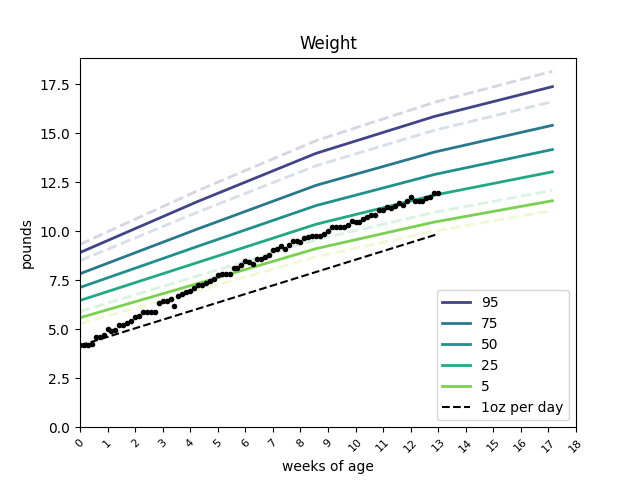
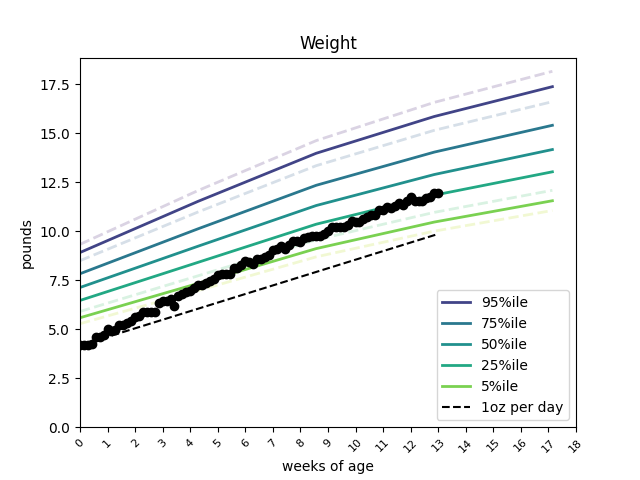
added weight vs. length percentiles

Changed region(s): [[0.125, 0.375, 0.6875, 0.75], [0.75, 0.5938, 0.8438, 0.8125]]

diff --git a/datita.py b/datita.py
@@ -62,19 +62,44 @@ def read_percentiles(percentile_type, gender, n_months):
     f = open('percentiles_{type}_{gender}.txt'.format(type=percentile_type, gender=gender), 'r')
     lines = f.readlines()
 
-    percentiles = numpy.zeros((9, n_months))
 
-    for i in range(n_months):
-        month_percentiles = lines[i].split()
-        for j in range(9):
-            if percentile_type == 'weight':
-                percentiles[j][i] = float(month_percentiles[j])*2.20462
-            elif percentile_type == 'length':
-                percentiles[j][i] = float(month_percentiles[j])*0.393701
-            elif percentile_type == 'head':
-                percentiles[j][i] = float(month_percentiles[j])*0.393701
+    if percentile_type == 'weight-length':
+        all_lengths = numpy.zeros(len(lines))
+        max_length = math.ceil(n_months) + 1
 
-    return percentiles
+        for i in range(len(lines)):
+            percentiles_data = lines[i].split()
+            all_lengths[i] = float(percentiles_data[0])*0.393701
+            if all_lengths[i] < max_length: 
+                j = i
+
+        lengths = numpy.zeros(j)
+        weight_percentiles = numpy.zeros((9, j))
+
+        for i in range(j):
+            percentiles_data = lines[i].split()
+            lengths[i] = all_lengths[i]
+            
+            for j in range(9):
+                weight_percentiles[j][i] = float(percentiles_data[j+1])*2.20462
+
+        return lengths, weight_percentiles
+
+    else:
+
+        percentiles = numpy.zeros((9, n_months))
+
+        for i in range(n_months):
+            month_percentiles = lines[i].split()
+            for j in range(9):
+                if percentile_type == 'weight':
+                    percentiles[j][i] = float(month_percentiles[j])*2.20462
+                elif percentile_type == 'length':
+                    percentiles[j][i] = float(month_percentiles[j])*0.393701
+                elif percentile_type == 'head':
+                    percentiles[j][i] = float(month_percentiles[j])*0.393701
+
+        return percentiles
 
 
 def parse_sleep(lines_sleeps):
@@ -153,7 +178,8 @@ def parse_weights(lines_weights, month_dates):
     # fill in weights on days without
     for i in range(len(data_weight)):
         if data_weight[i] == []:
-            data_weight[i] = [all_dates[i], data_weight[i-1][1]]
+            date = datetime.combine(all_dates[i], time(0, 0))
+            data_weight[i] = [date, data_weight[i-1][1]]
 
     return data_weight
 
@@ -605,6 +631,47 @@ def plot_diapers(data_diapers):
     plt.savefig('diapers_number.png')
 
 
+def plot_percentiles_weight_vs_length(gender, data_weight, data_length, n_months):
+    
+    [lengths, percentile_weight] = read_percentiles('weight-length', gender, n_months)
+    percentiles = [2, 5, 10, 25, 50, 75, 90, 95, 98]
+    percentile_colors = numpy.arange(0.1, 1.0, 0.1)
+
+    plt.figure()
+
+    for i in reversed(range(9)):
+        width = 2
+        if i in [1, 3, 4, 5, 7]:
+            label = '{percentile}%ile'.format(percentile=percentiles[i])
+            linestyle = '-'
+            alpha = 1
+        else:
+            label = None
+            linestyle = '--'
+            alpha = 0.2
+        plt.plot(lengths, percentile_weight[i], color=colormap(percentile_colors[i]), linestyle=linestyle, linewidth=width, label=label, alpha=alpha)
+
+    
+    plt.title('Weight vs. Length')
+    plt.gca().set_xlim(left=18)
+    plt.gca().set_ylim(bottom=4)
+    plt.xlabel('inches')
+    plt.ylabel('pounds')
+
+    j = 0
+    
+    for i in range(len(data_length)):
+        length_date = data_length[i][0]
+    
+        while data_weight[j][0] < length_date:
+            j = j + 1
+        matching_weight = data_weight[j][1]
+        plt.plot(data_length[i][1], data_weight[j][1], 'ko')
+
+    plt.gca().legend(loc='best')
+    plt.savefig('weight-length.png')
+
+
 def plot_percentiles(measurement, gender, measurement_data, n_months):
     
     percentile_data = read_percentiles(measurement, gender, n_months)
@@ -616,7 +683,7 @@ def plot_percentiles(measurement, gender, measurement_data, n_months):
     for i in reversed(range(9)):
         width = 2
         if i in [1, 3, 4, 5, 7]:
-            label = percentiles[i]
+            label = '{percentile}%ile'.format(percentile=percentiles[i])
             linestyle = '-'
             alpha = 1
         else:
@@ -643,7 +710,7 @@ def plot_percentiles(measurement, gender, measurement_data, n_months):
         plt.ylabel('inches')
     
     for i in range(len(measurement_data)):
-        plt.plot(measurement_data[i][0], measurement_data[i][1], 'k.')
+        plt.plot(measurement_data[i][0], measurement_data[i][1], 'ko')
 
     plt.gca().legend(loc='best')
     week_ticks(measurement_data, label_type)
@@ -692,8 +759,6 @@ if __name__ == '__main__':
     data_length = parse_lengths(lines_lengths, month_dates)
     data_head = parse_head(head_filename)
     
-    
-    
     plot_sleep(data_sleep, n_days_sleep)
     plot_sleep_24(data_sleep_24)
     plot_feeding(data_feeding)
@@ -701,5 +766,6 @@ if __name__ == '__main__':
     plot_percentiles('weight', gender, data_weight, n_months)
     plot_percentiles('length', gender, data_length, n_months)
     plot_percentiles('head', gender, data_head, n_months)
+    plot_percentiles_weight_vs_length(gender, data_weight, data_length, data_length[-2][1])
 
     plt.show()
